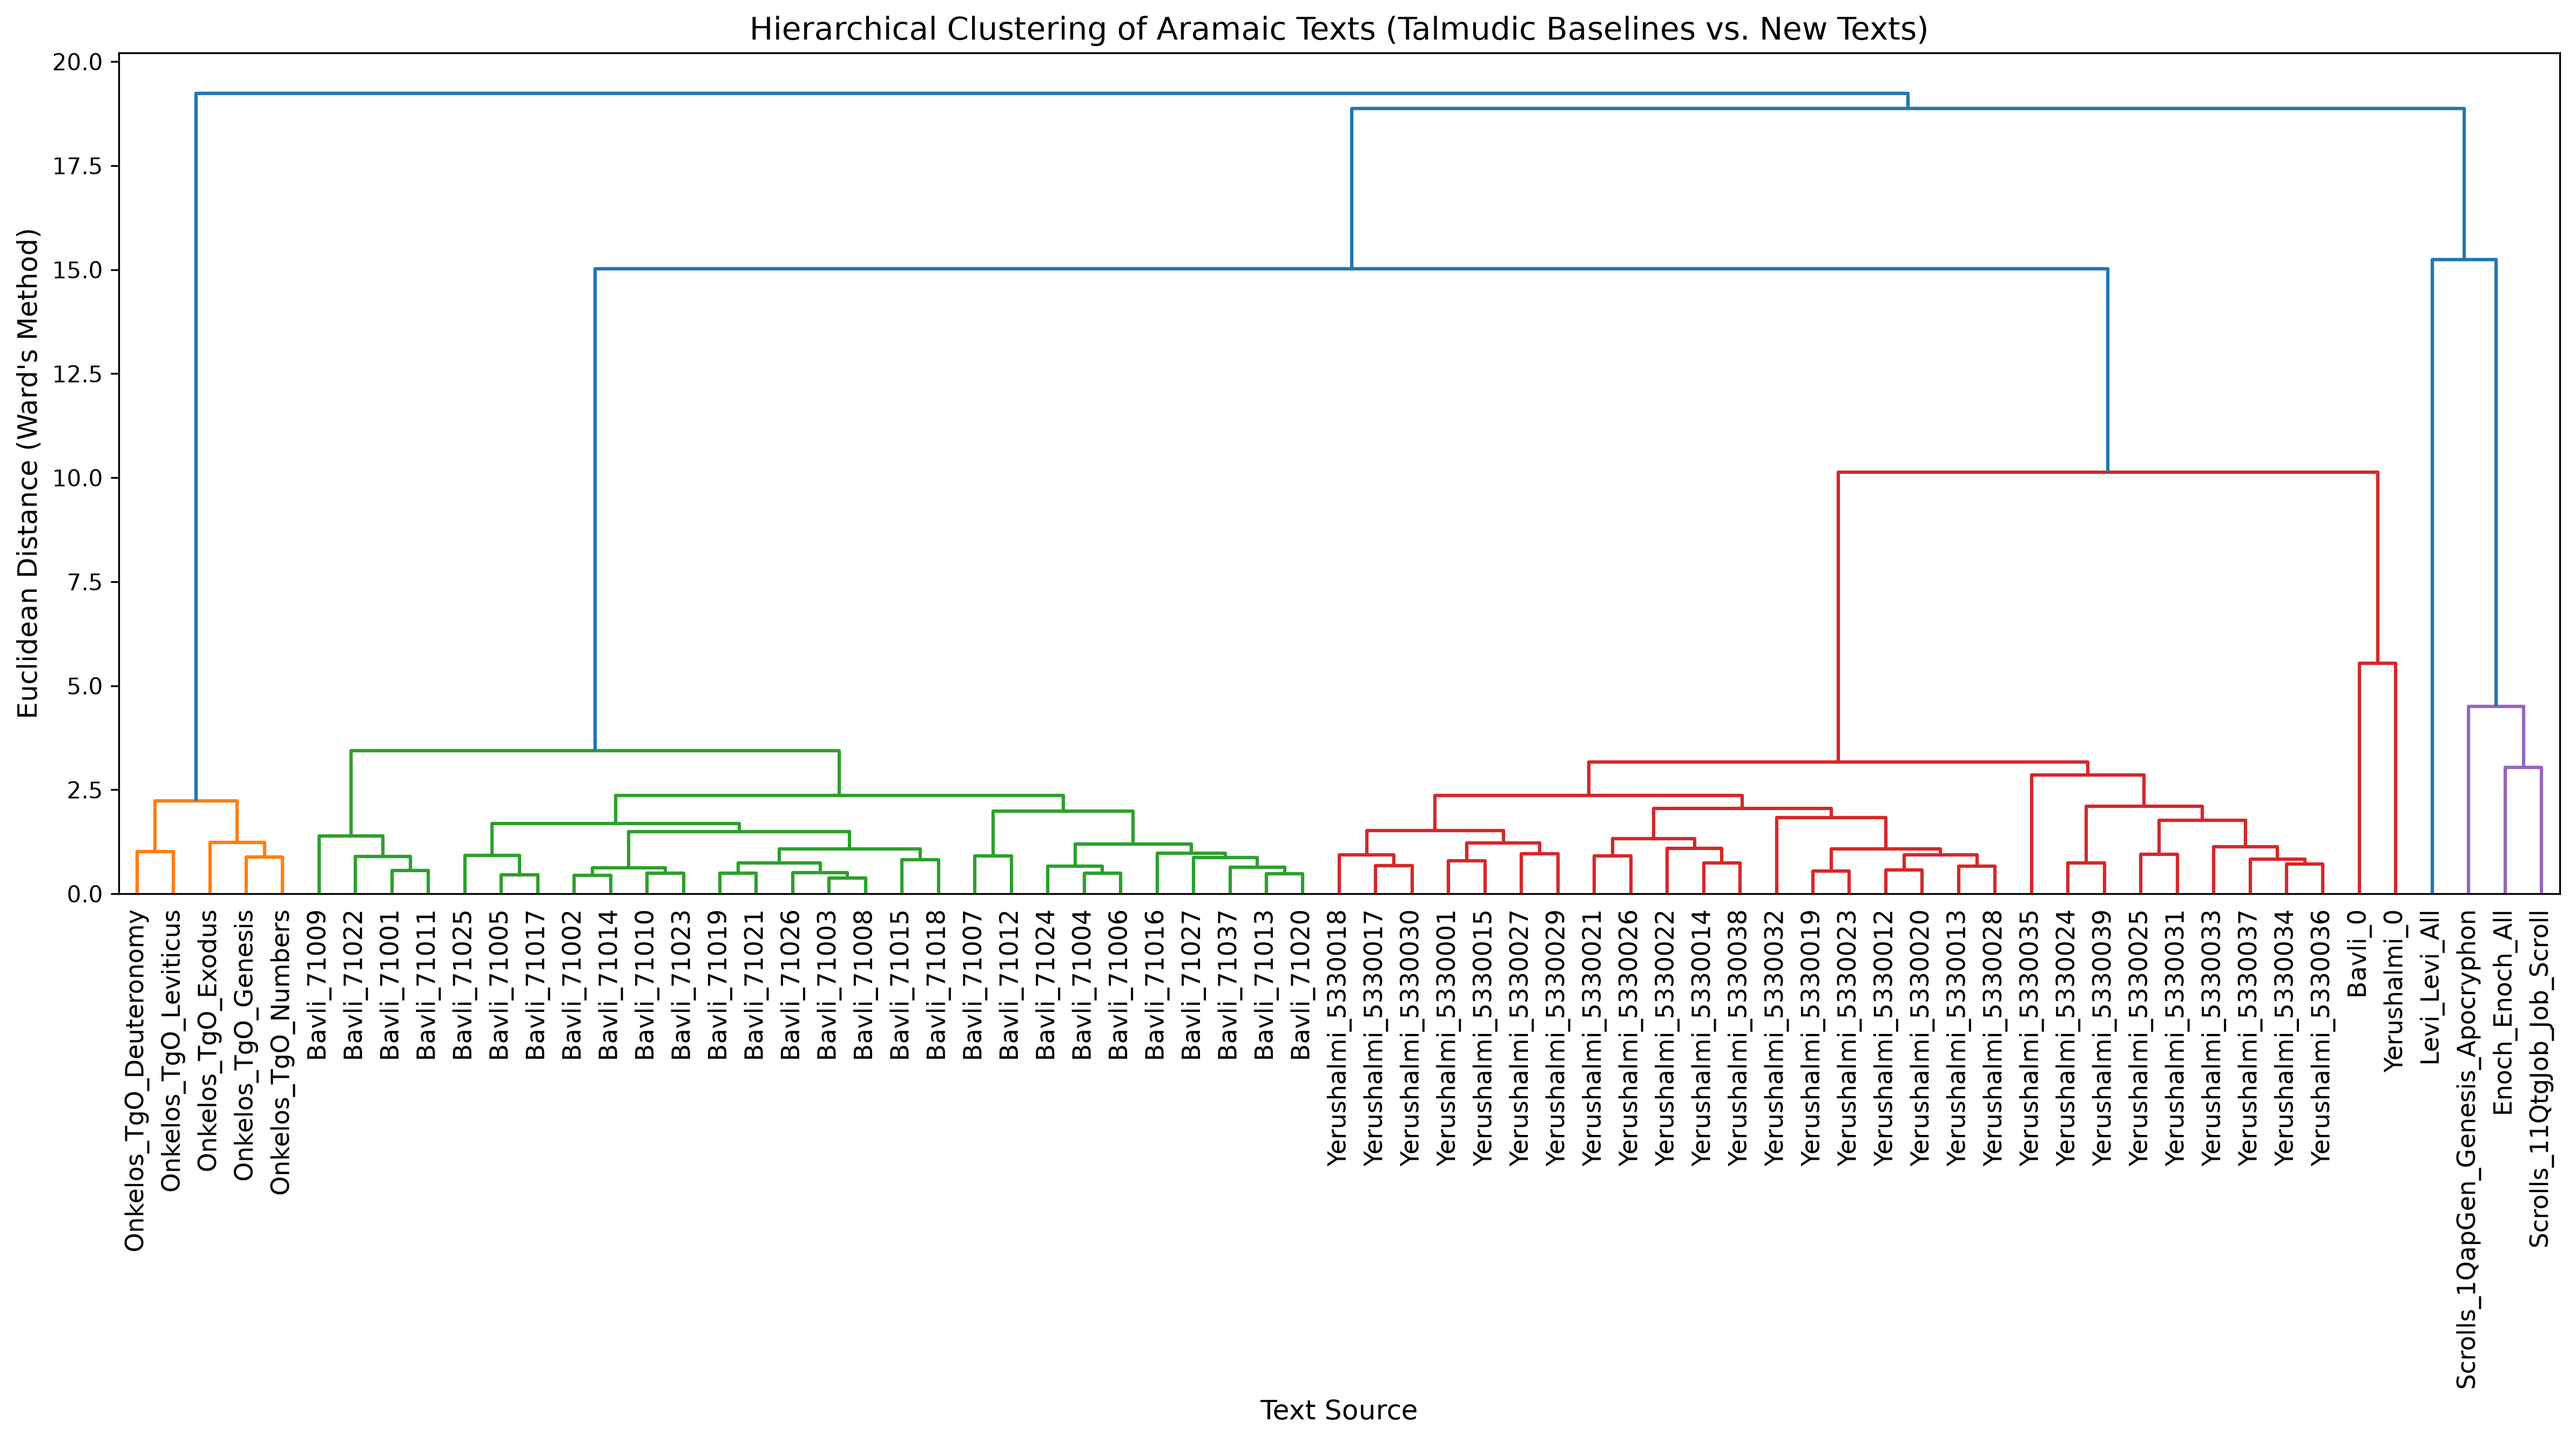
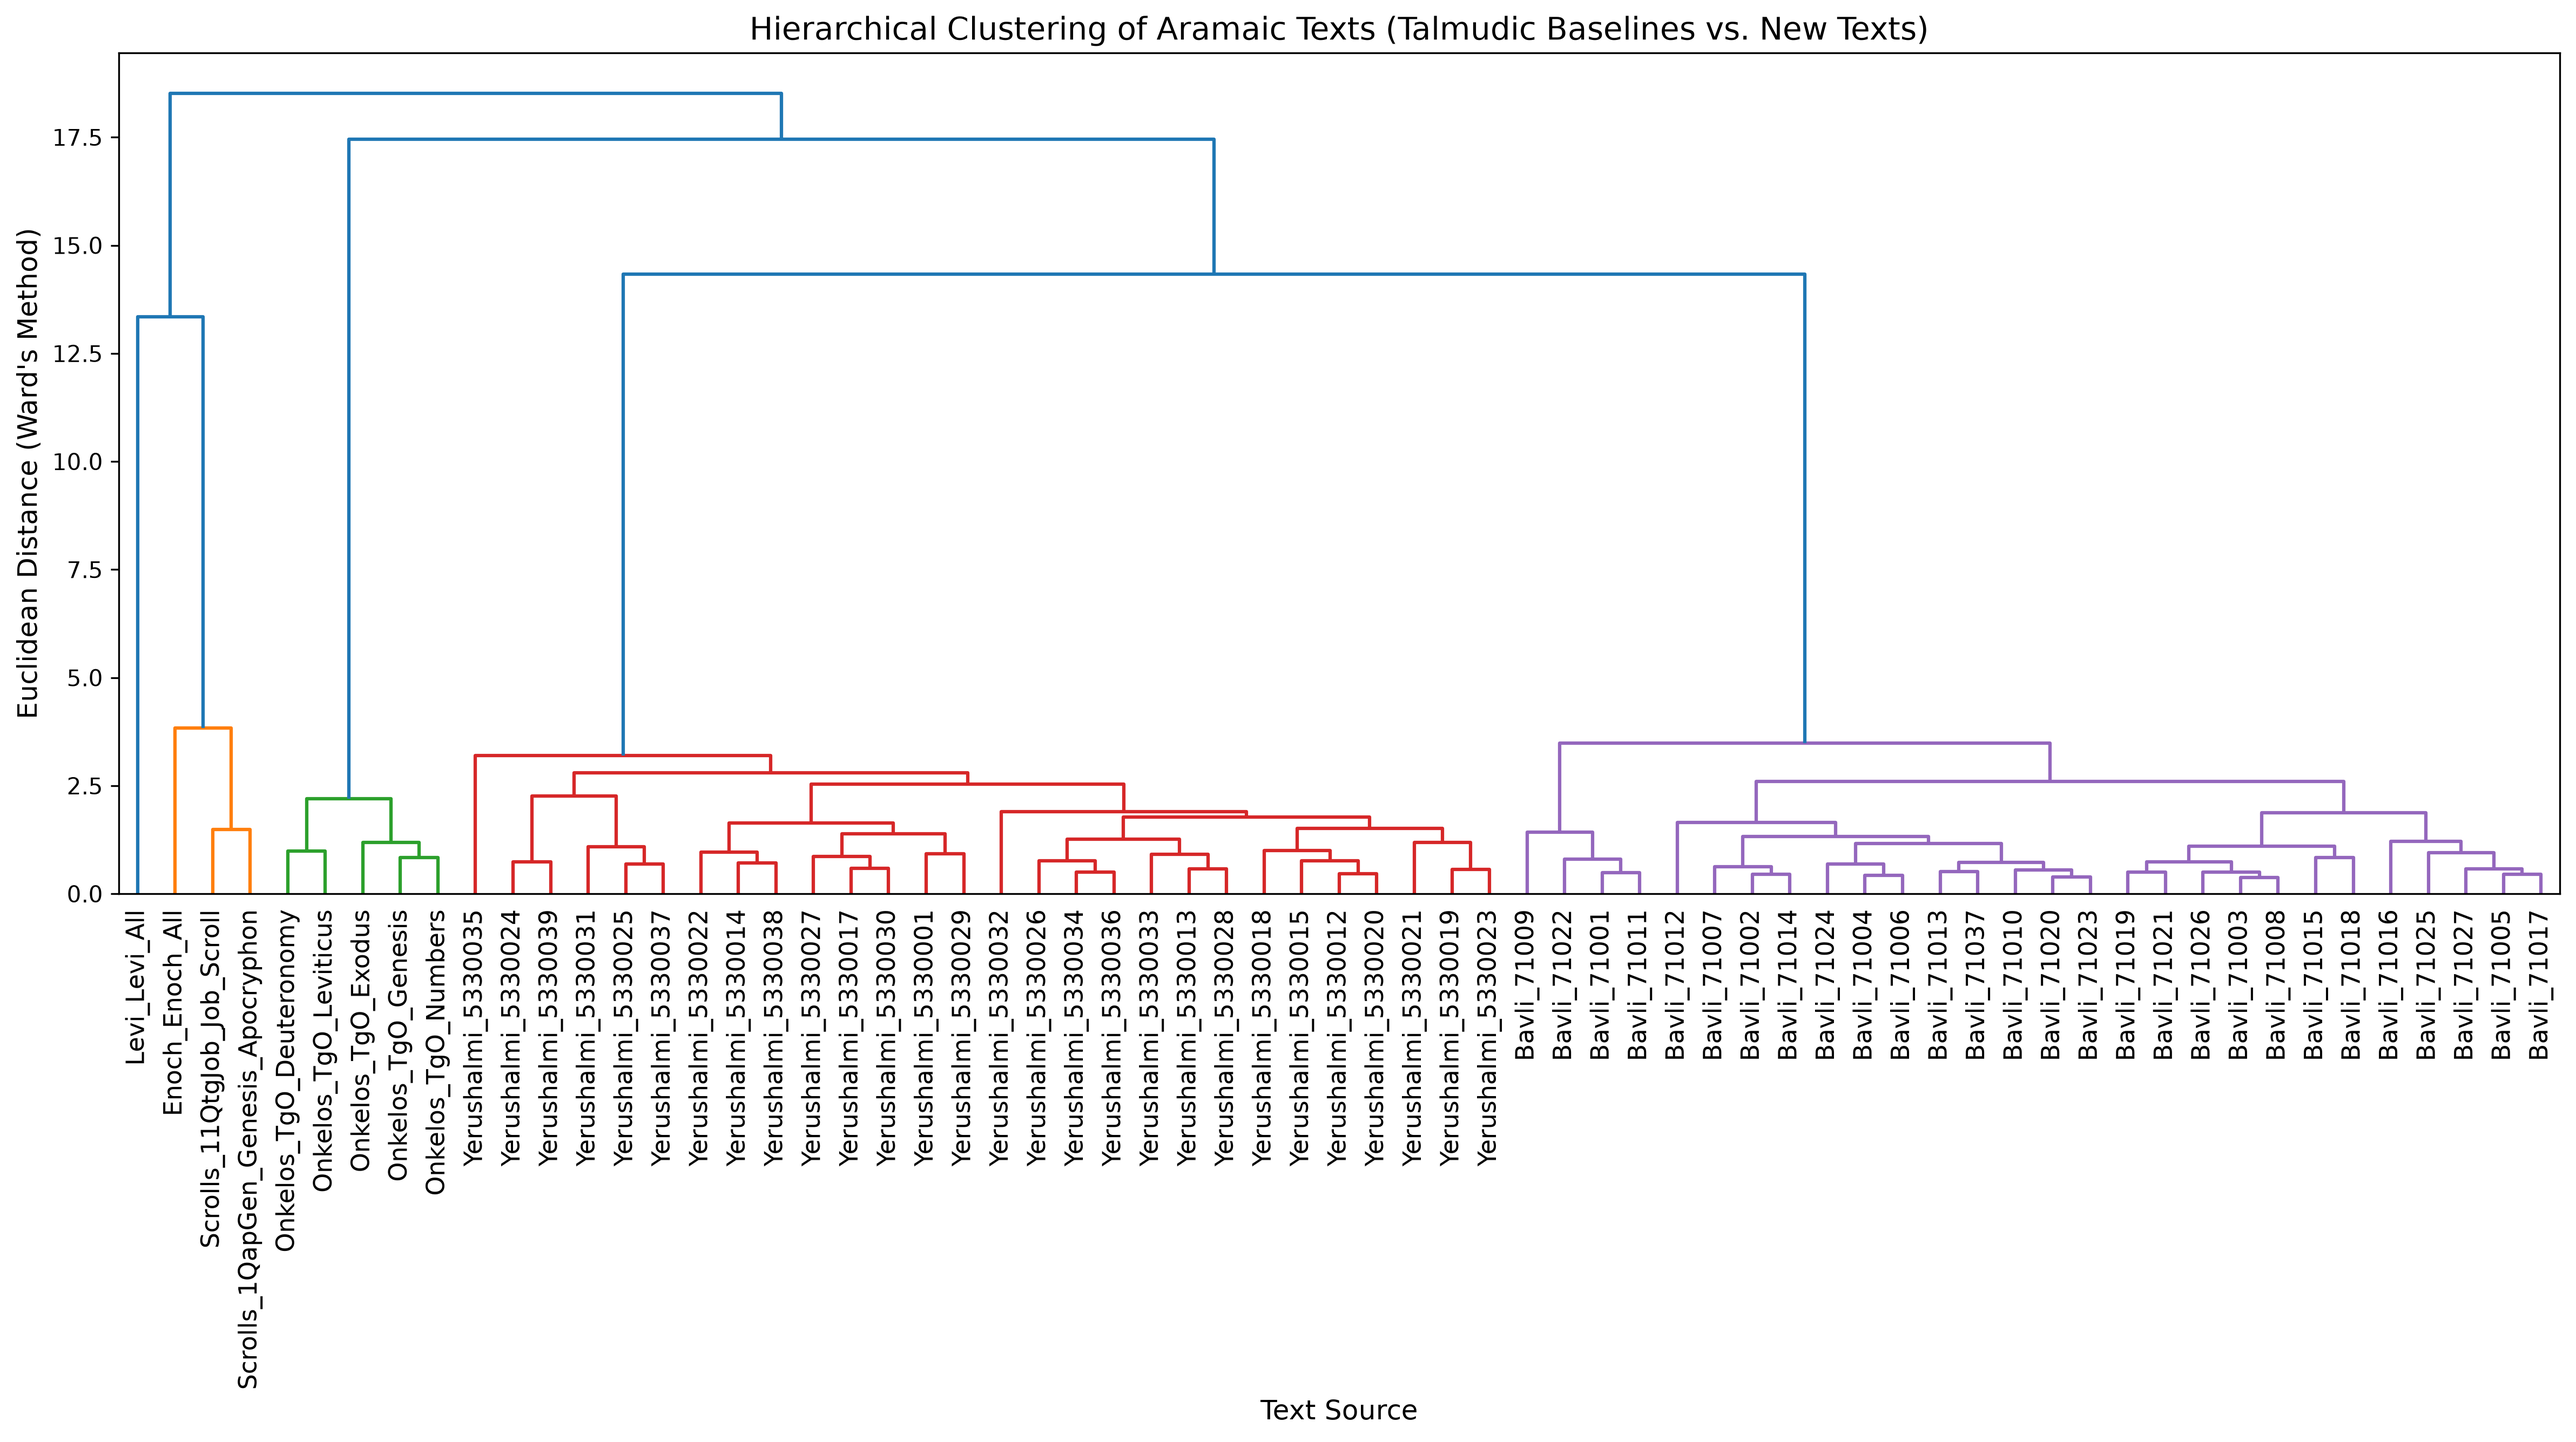
עדכון לאחר דנדוגרמה תקינה

diff --git a/create_dendrogram.py b/create_dendrogram.py
@@ -20,7 +20,7 @@ files = {
 common_features = [
     'emphatic_ratio', 'absolute_ratio', 'function_words_ratio', 
     'lexical_diversity', 'verb_ratio', 'passive_voice_ratio', 
-    'plural_ratio', 'line_length', 'avg_word_len', 
+    'plural_ratio', # 'line_length', 'avg_word_len', 
     'v_then_noun_ratio', 'v_then_prep_ratio'
 ]
 
@@ -59,6 +59,9 @@ for name, file_path in files.items():
         # טיפול מיוחד בקובץ התלמוד המאוחד
         if name == "Talmud_Merged":
             print("Processing Merged Talmud file...")
+
+            # ⭐⭐⭐ שורת התיקון החדשה שלך: מסננת החוצה את מסכתות 0 ורעשים
+            df = df[~df['masekhet'].astype(str).str.strip().isin(['0', '0000000', '0.0', 'nan'])]
             
             # ❗❗ חשוב: ודאי ששם העמודה כאן תואם לשם האמיתי בקובץ ה-CSV שלך ❗❗
             # החליפי את 'label' בשם העמודה שמפרידה בין בבלי לירושלמי (למשל 'corpus')
@@ -130,6 +133,43 @@ if dfs:
         print("\nDendrogram saved successfully as 'dendrogram_output.png'")
         
         plt.show()
+
+        # === חישוב מרחק קוטבי (Pole-Distance to Centroids) עבור הפוסטר ===
+        print("\n" + "="*40)
+        print("POLE-DISTANCE ANALYSIS (CENTROIDS)")
+        print("="*40)
+        
+        # 1. בידוד וקטורי המאפיינים המנורמלים של הבבלי והירושלמי
+        bavli_rows = final_data_normalized[final_data_normalized.index.str.contains('Bavli')]
+        yerushalmi_rows = final_data_normalized[final_data_normalized.index.str.contains('Yerushalmi')]
+        
+        # 2. חישוב הצנטרואיד (מרכז הקוטב) לכל ניב
+        bavli_centroid = bavli_rows.mean()
+        yerushalmi_centroid = yerushalmi_rows.mean()
+        
+        # 3. חישוב המרחק של הטקסטים החדשים מכל קוטב
+        new_corpora = ['Enoch', 'Onkelos', 'Scrolls', 'Levi']
+        
+        for corpus in new_corpora:
+            # שליפת השורות השייכות לקורפוס הנוכחי
+            corpus_rows = final_data_normalized[final_data_normalized.index.str.contains(corpus)]
+            
+            if not corpus_rows.empty:
+                # חישוב מרכז הקורפוס החדש
+                corpus_centroid = corpus_rows.mean()
+                
+                # חישוב מרחק אוקלידי לשני הקטבים התלמודיים
+                dist_to_bavli = np.linalg.norm(corpus_centroid - bavli_centroid)
+                dist_to_yerushalmi = np.linalg.norm(corpus_centroid - yerushalmi_centroid)
+                
+                closer_to = "Yerushalmi (West)" if dist_to_yerushalmi < dist_to_bavli else "Bavli (East)"
+                
+                print(f"\nCorpus: {corpus}")
+                print(f"  -> Distance to Bavli Centroid (Eastern Pole):  {dist_to_bavli:.4f}")
+                print(f"  -> Distance to Yerushalmi Centroid (Western Pole): {dist_to_yerushalmi:.4f}")
+                print(f"  >> Conclusion: Closer to {closer_to}")
+        print("="*40)
+    
     else:
         print("Not enough data points.")
 else:
